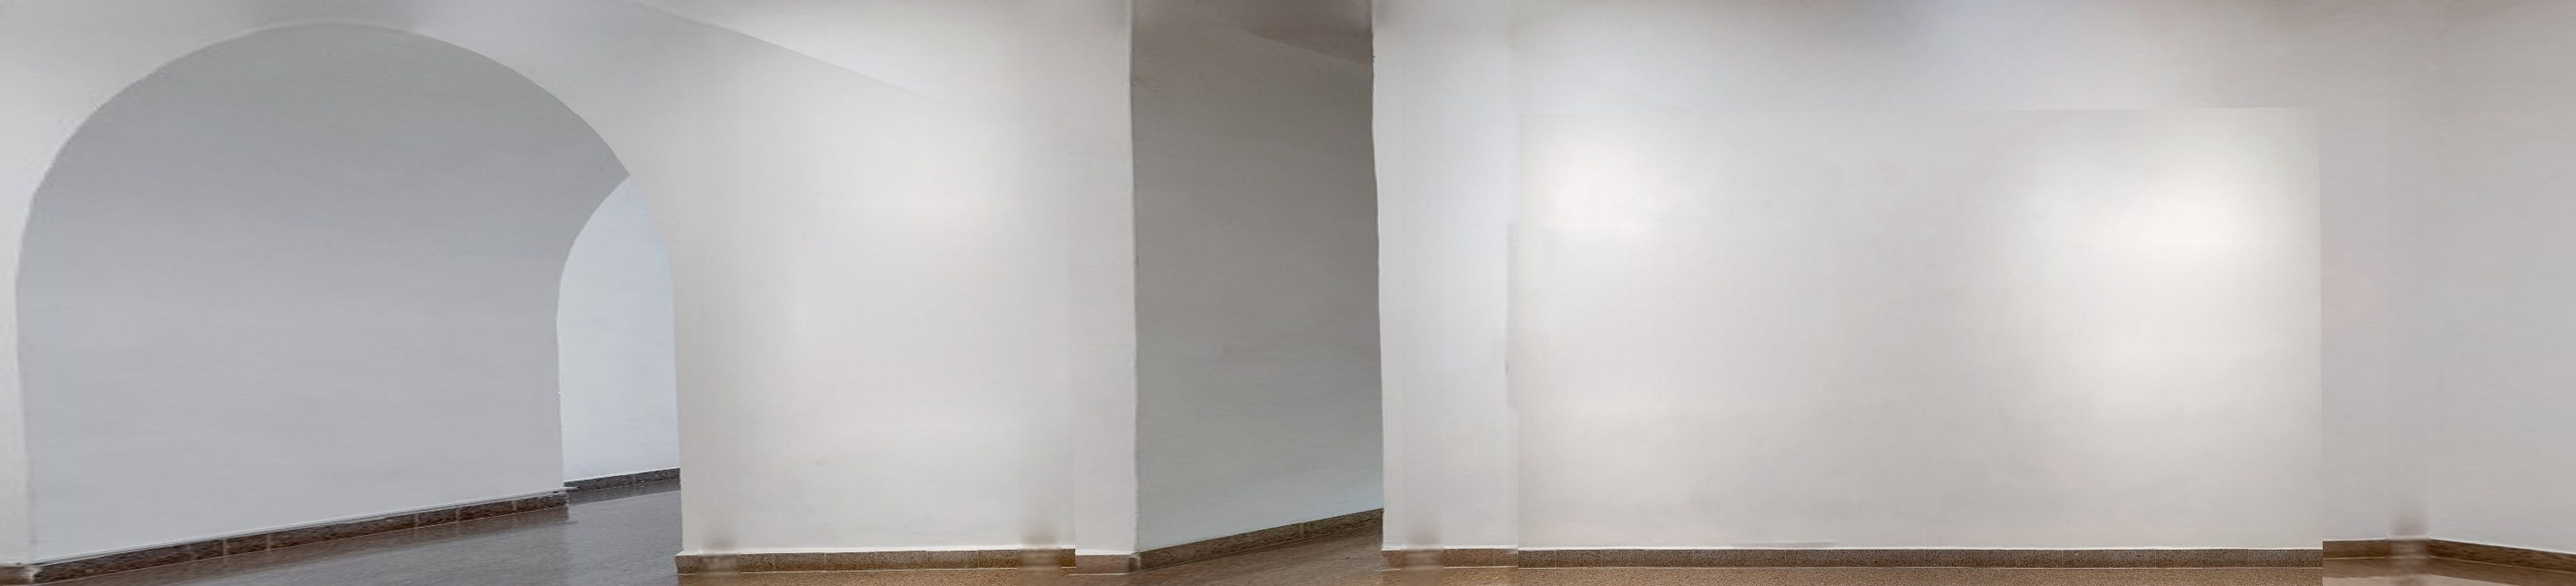
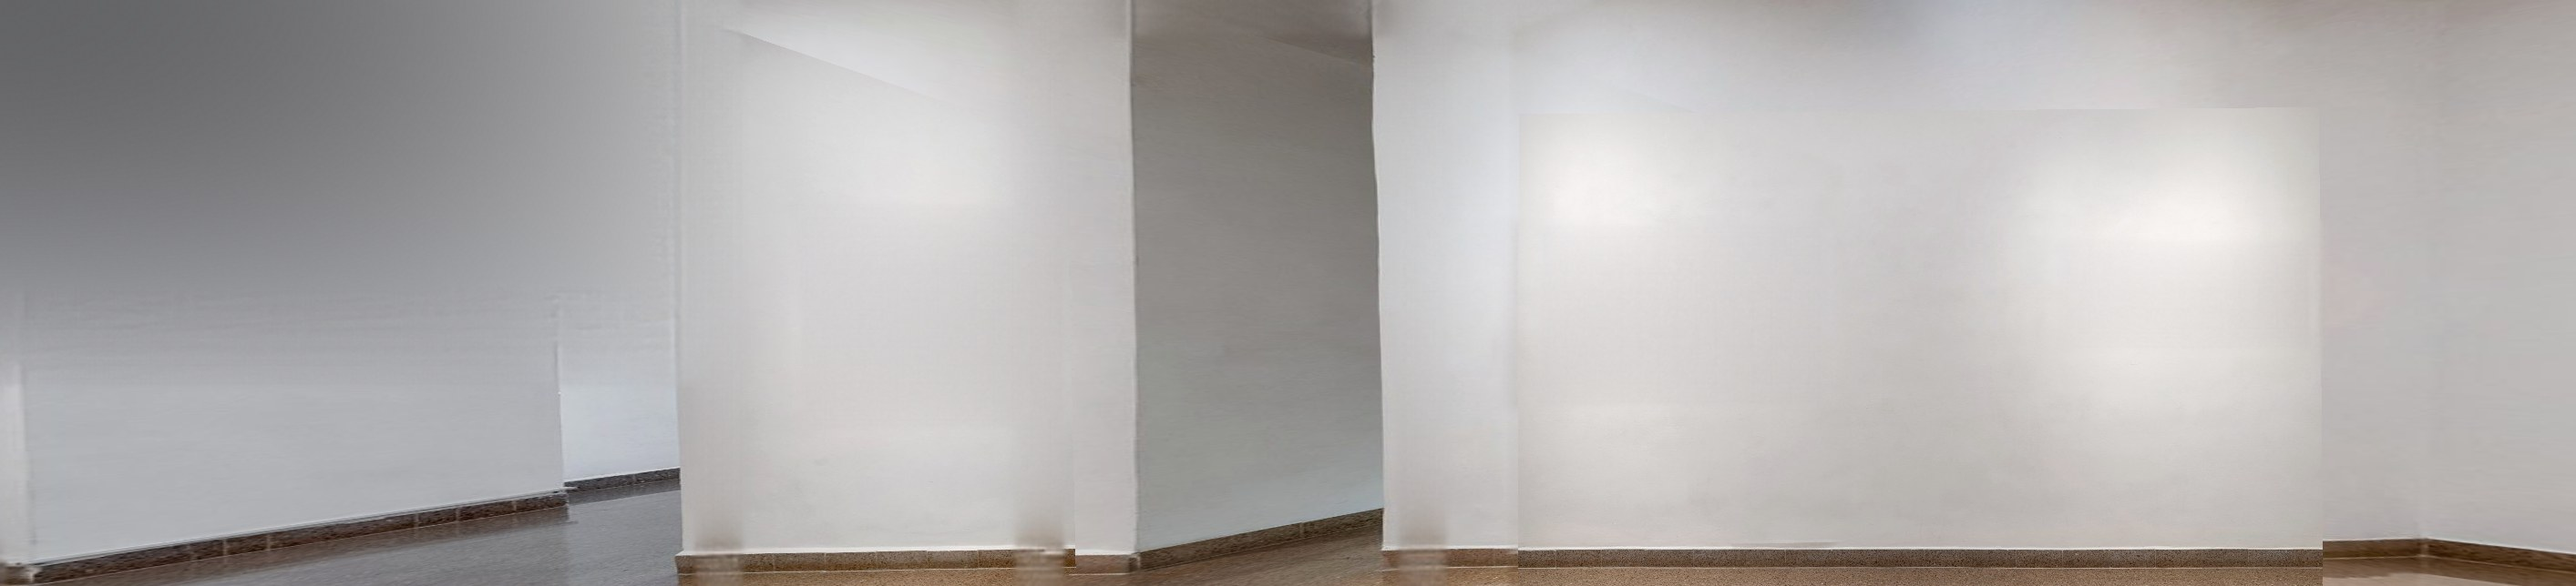
Open Studio spaces: arches as they are, the room beyond the openings, no halos round works, a real terrazzo
- Openings: the top is the shape whose outline runs along the strongest edge
  in the photos, a lintel or half an ellipse of any rise (Ritual's wide arch
  had come out square: its steep sides hid it from the old test); an
  'opening' with no outline at all is not one (a skirting dropping at a
  corner had become a doorway).
- An arch's curved inside is modelled in the room's plaster; the view
  through every opening is what the photos show beyond it, just behind it,
  instead of an empty grey box.
- The wall round each work is filled from clean wall: a 6 cm ring round the
  hidden area is filled too and blended back, so no canvas edge or shadow
  is carried in, and no lighter rectangle shows round a work.
- The floor's grain as strong as the real floor's (it came out faint and
  read as plastic a few metres away).
- The inspection doesn't count the app's missing thumbnails list (written
  only when published) as a fault of the space.

Ritual: 10 of 10, 13 of 13 (ghost 0, smear 0.0003).

Claude-Session: https://claude.ai/code/session_017GsJvpJhWTJ6Xso11HKtdL

diff --git a/studio/app/space/space.js b/studio/app/space/space.js
@@ -87,9 +87,10 @@ export async function openSpace({ spec, works, src, onClose, onOpenWork }) {
     return new THREE.Mesh(g, material);
   }
   function openingPath(o, path) {
-    const r = o.arch ? Math.min((o.to - o.from) / 2, o.height - 0.5) : 0;
+    // an arch: half an ellipse as wide as the opening, rising as measured (a semicircle when not measured)
+    const hw = (o.to - o.from) / 2, r = o.arch ? Math.min(o.rise || hw, o.height - 0.5) : 0;
     path.moveTo(o.from, 0); path.lineTo(o.to, 0); path.lineTo(o.to, o.height - r);
-    if (o.arch) path.absarc((o.from + o.to) / 2, o.height - r, (o.to - o.from) / 2, 0, Math.PI, false); else path.lineTo(o.from, o.height);
+    if (o.arch) path.absellipse(o.from + hw, o.height - r, hw, r, 0, Math.PI, false); else path.lineTo(o.from, o.height);
     path.lineTo(o.from, 0); return path;
   }
 
@@ -109,11 +110,28 @@ export async function openSpace({ spec, works, src, onClose, onOpenWork }) {
     const depth = o.depth || 0.3;
     const U = V(s.u), N = V(s.normal), O = V(s.origin);
     const bottom = O.clone().addScaledVector(V(s.v), s.size[1]);  // the wall's foot at u = 0
-    if (!surfaces.some(x => x.kind === 'reveal')) {          // older spaces: a plain modelled thickness
-      const geo = new THREE.ExtrudeGeometry(openingPath(o, new THREE.Shape()), { depth, bevelEnabled: false, curveSegments: 24 });
+    if (o.arch || !surfaces.some(x => x.kind === 'reveal')) {
+      // an arch's curved inside (or, in older spaces, any opening's sides): modelled, in the room's plaster
+      const geo = new THREE.ExtrudeGeometry(openingPath(o, new THREE.Shape()), { depth, bevelEnabled: false, curveSegments: 48 });
       const basis = new THREE.Matrix4().makeBasis(U, new THREE.Vector3(0, 1, 0), N.clone().negate());
-      const rev = new THREE.Mesh(geo, [new THREE.MeshBasicMaterial({ visible: false }), new THREE.MeshStandardMaterial({ color: '#d9d7d2', roughness: 1, side: THREE.DoubleSide })]);
+      let side;
+      if (plasterTex) {
+        const t = plasterTex.clone(); t.wrapS = t.wrapT = THREE.RepeatWrapping; t.repeat.set(1, 1); t.needsUpdate = true;
+        side = new THREE.MeshBasicMaterial({ map: t, color: 0xe4e2de, toneMapped: false, side: THREE.DoubleSide });
+      } else side = new THREE.MeshStandardMaterial({ color: '#d9d7d2', roughness: 1, side: THREE.DoubleSide });
+      const rev = new THREE.Mesh(geo, [new THREE.MeshBasicMaterial({ visible: false }), side]);
       rev.applyMatrix4(basis); rev.position.copy(bottom); rev.userData.kind = 'reveal'; scene.add(rev);
+    }
+    if (o.view) {
+      // what the photos show through the opening, just behind it: the room beyond as it really is
+      loadTex(o.view).then(t => {
+        if (!t) return;
+        const w0 = o.to - o.from, g = new THREE.PlaneGeometry(w0, o.height);
+        const m = new THREE.Mesh(g, new THREE.MeshBasicMaterial({ map: t, toneMapped: false, side: THREE.DoubleSide }));
+        const c = bottom.clone().addScaledVector(U, (o.from + o.to) / 2).addScaledVector(N, -(depth + 0.02)).setY(o.height / 2);
+        m.matrixAutoUpdate = false; m.matrix.makeBasis(U, new THREE.Vector3(0, 1, 0), N).setPosition(c);
+        m.userData.kind = 'beyond'; scene.add(m); dirty = true;
+      });
     }
     const w = o.to - o.from + 2.4, d = 3.2;
     const mid = bottom.clone().addScaledVector(U, (o.from + o.to) / 2).addScaledVector(N, -(depth + d / 2));

diff --git a/studio/app/space/pipeline/build.py b/studio/app/space/pipeline/build.py
@@ -18,6 +18,7 @@ from .ties import find_ties
 from . import status, room, bake, verify, live
 
 OUT = APP / 'data' / 'spaces'
+GRAIN = 14              # the floor tile's grain, standard deviation in 0-255 (a terrazzo's chips read at a few metres)
 SMALL = 1024            # px, the long side of the image a work first shows in the walk
 CACHE = APP / 'space' / '.cache'
 
@@ -151,7 +152,11 @@ def floor_detail(images, cams, masks, gains, fy, size=1.0, mpp=0.003):
     yy, xx = np.mgrid[0:n, 0:n] / (n - 1)
     w = (np.minimum(xx, 1 - xx) * 2) * (np.minimum(yy, 1 - yy) * 2)
     w = np.clip(w * 3, 0, 1)[..., None]
-    return np.clip(t * w + sh * (1 - w), 0, 255).astype(np.uint8)
+    t = t * w + sh * (1 - w)
+    # the grain as strong as on the real floor: sampled from a photo at an angle (and cross-faded) it comes out
+    # faint, and a terrazzo's chips then melt into a flat, plastic-looking floor a few metres away
+    gain = float(np.clip(GRAIN / max(t.std(axis=(0, 1)).mean(), 1e-3), 1.0, 2.5))
+    return np.clip(mean + (t - mean) * gain, 0, 255).astype(np.uint8)
 
 
 def look_of(cam, fy):
@@ -242,7 +247,7 @@ def build(slug, log=print):
         # and only where the wall was well photographed: a poorly seen corner is no evidence of a doorway
         # (read from the wall as it will show, completed where no photo saw it: a gap is not an edge)
         whole = bake.fill_holes(col, cov)
-        ops = room.openings_in_wall(whole, np.ones(cov.shape, bool), floor_lab, s.texel, ceiling, ceiling) \
+        ops = room.openings_in_wall(whole, np.ones(cov.shape, bool), floor_lab, s.texel, ceiling, ceiling, log) \
             if box_how[measured[s.name]].startswith('נמדד') and cov.mean() > 0.7 else []
         # round each opening, the photos show its real edge a few cm from where it is cut: that band is
         # filled with plain wall, so no sliver of the photo's edge runs alongside the cut
@@ -262,9 +267,9 @@ def build(slug, log=print):
             r_top = int((ceiling - o['height']) / s.texel)
             cov[:, max(0, c0 - b):c0 + 1] = 0; cov[:, c1:c1 + b] = 0
             # over the top: a lintel's edge, or for an arch the whole curve from where it springs
-            r_spring = int((ceiling - o['height'] + ((o['to'] - o['from']) / 2 if o.get('arch') else 0)) / s.texel)
+            r_spring = int((ceiling - o['height'] + (o.get('rise', (o['to'] - o['from']) / 2) if o.get('arch') else 0)) / s.texel)
             cov[max(0, r_top - b):r_spring + 1, max(0, c0 - b):c1 + b] = 0
-        col = bake.fill_holes(col, cov)
+        col = bake.fill_holes(col, cov, feather=int(0.06 / s.texel))
         # what is left on the open wall that stands out from the plaster round it (a wall label, a switch,
         # a stain, the trace of a work's edge) is taken away: the walls show the works and nothing else
         spots = room.wall_spots(col, s.texel, ceiling, [o for o in ops], works_on(s, works, sizes, fy, ceiling))
@@ -273,9 +278,17 @@ def build(slug, log=print):
             log(f"  {s.name}: {spots.mean() * 100:.2f}% of the wall cleaned of marks")
         write_jpg(d / f'{s.name}.jpg', col)
         surfaces.append(surface_json(s, fy, f'{rel}/{s.name}.jpg', 'wall', cov, ops))
-        # the inside of each opening (the wall's thickness) is baked from the photos too, like the walls
+        # the inside of each opening (the wall's thickness) is baked from the photos too, like the walls; an
+        # arch's curved inside is modelled by the viewer, in the room's plaster
         for k, o in enumerate(ops):
             o['depth'] = REVEAL
+            # what the photos show through the opening (the room beyond), seen from the wall's plane: the
+            # viewer shows it just behind the opening, instead of an empty box
+            c0, c1 = int(o['from'] / s.texel), int(o['to'] / s.texel); r0 = max(0, int((ceiling - o['height']) / s.texel))
+            write_jpg(d / f'{s.name}-o{k}-view.jpg', whole[r0:, c0:c1], q=86)      # (before the band round it was cleared)
+            o['view'] = f'{rel}/{s.name}-o{k}-view.jpg'
+            if o.get('arch'):
+                continue
             for r in reveal_surfaces(s, o, ceiling, f'{s.name}-o{k}'):
                 rc, rcov, _, _ = bake.bake(r, images, cams, masks, gains)
                 if rcov.mean() < 0.3 and profile is not None:

diff --git a/studio/app/space/pipeline/room.py b/studio/app/space/pipeline/room.py
@@ -370,7 +370,7 @@ def foot_runs(img, valid, texel, top_height, log=None):
     return out
 
 
-def openings_in_wall(img, valid, floor_lab, texel, top_height, ceiling):
+def openings_in_wall(img, valid, floor_lab, texel, top_height, ceiling, log=None):
     """Openings in a wall: columns where the floor carries on above the wall's foot (seen through the
     wall plane), at least 0.6 m wide. Each gets a top: an arch if its edge rises to the middle."""
     lab = cv2.cvtColor(img, cv2.COLOR_BGR2LAB).astype(np.float32)
@@ -452,8 +452,51 @@ def openings_in_wall(img, valid, floor_lab, texel, top_height, ceiling):
             ja, jb = jamb(a, height), jamb(b, height)
             if ja is None or jb is None or (jb - ja) * texel < 0.6:
                 continue
-        out.append({'from': round(ja * texel, 3), 'to': round(jb * texel, 3), 'height': round(height, 2), 'arch': arch})
+        shape = opening_shape(lab[..., 0], wall_L, ja, jb, height, texel, top_height)
+        if shape is None:
+            if log:
+                log(f"    {ja * texel:.2f}-{jb * texel:.2f} m: nothing seen through it, not an opening")
+            continue
+        rise = shape
+        out.append({'from': round(ja * texel, 3), 'to': round(jb * texel, 3), 'height': round(height, 2), 'arch': rise > 0,
+                    **({'rise': round(rise, 2)} if rise > 0 else {})})
     return out
+
+
+def opening_shape(L, wall_L, a, b, height, texel, top_height):
+    """An opening's top, from its outline in the photos.
+    Returns the arch's rise in metres (0: a square top), or None if no outline is seen at all (the wall's
+    foot dropping at a corner, say: not an opening).
+
+    The top is the shape whose outline runs along the strongest edge in the photos: a straight lintel or
+    half an ellipse of any rise (a wide arch has steep sides, so its top's height alone, middle against
+    sides, misses it)."""
+    H = L.shape[0]
+    hw = (b - a) / 2 * texel
+    # the top's outline is a sharp edge in the photos: the shape whose outline runs along the strongest edge
+    g = cv2.GaussianBlur(L, (0, 0), 1.5)
+    mag = np.hypot(cv2.Sobel(g, cv2.CV_32F, 1, 0), cv2.Sobel(g, cv2.CV_32F, 0, 1))
+
+    def along(rise):
+        spring = height - rise
+        t = np.linspace(0, np.pi, 200)
+        px = (a + b) / 2 + np.cos(t) * hw / texel
+        py = (top_height - (spring + np.sin(t) * rise)) / texel if rise else np.full_like(t, (top_height - height) / texel)
+        if not rise:
+            px = np.linspace(a + 2, b - 2, 200)
+        ix = np.clip(px.astype(int), 0, L.shape[1] - 1); iy = np.clip(py.astype(int), 0, H - 1)
+        return float(np.mean([mag[max(0, j - 2):j + 3, i].max() for i, j in zip(ix, iy)]))
+    rises = [0.0] + list(np.linspace(0.3, min(hw, height - 1.0), 16))
+    scores = [along(r) for r in rises]
+    # an opening's outline is sharp; plain wall's texture is not (the wall beside it, at the works' height)
+    band = mag[int((top_height - 2.0) / texel):int((top_height - 0.3) / texel)]
+    wall = np.percentile(np.delete(band, np.s_[max(0, a - 20):b + 20], axis=1), 90) if band.size else 1.0
+    if max(scores) < 1.8 * wall:
+        return None
+    best = rises[int(np.argmax(scores))]
+    if best and scores[int(np.argmax(scores))] < 1.5 * max(scores[0], 1.0):
+        best = 0.0                                                    # no clear curve: a square top
+    return float(best)
 
 
 def wall_profile(img, seen):

diff --git a/studio/app/space/pipeline/bake.py b/studio/app/space/pipeline/bake.py
@@ -212,12 +212,23 @@ def match_edges(out, img, miss):
     return np.clip(res, 0, 255).astype(np.uint8)
 
 
-def fill_holes(img, cover):
+def fill_holes(img, cover, feather=0):
     """Where no photo saw the surface: small gaps are continued from their edges at full detail, large
-    ones softly from the surrounding colour (both are hidden behind works more often than not)."""
+    ones softly from the surrounding colour (both are hidden behind works more often than not).
+
+    feather (pixels): the seen surface right round a gap is often its least trustworthy part (a canvas's
+    edge or shadow just outside a work's mask, a doorframe's): a ring that wide is filled too, and blended
+    back into what was seen from the gap outward, so the fill starts from clean wall and leaves no seam."""
     miss = (cover == 0)
     if not miss.any() or miss.all():
         return img
+    if feather:
+        ring = cv2.dilate(miss.astype(np.uint8), cv2.getStructuringElement(cv2.MORPH_ELLIPSE, (2 * feather + 1,) * 2)) > 0
+        filled = fill_holes(img, (~ring).astype(np.float32))
+        d = cv2.distanceTransform((~miss).astype(np.uint8), cv2.DIST_L2, 5)
+        a = np.clip(1 - d / feather, 0, 1)[..., None]
+        a = a * a * (3 - 2 * a)                                      # a smooth step, no edge of its own
+        return np.clip(filled * a + img * (1 - a), 0, 255).astype(np.uint8)
     from . import inpaint
     lam = inpaint.fill(img, miss)
     if lam is not None:

diff --git a/studio/app/data/spaces/ritual.report.md b/studio/app/data/spaces/ritual.report.md
@@ -2,7 +2,7 @@
 
 # דוח חלל: Ritual
 
-נבנה אוטומטית ב־2026-10-25 מתוך 6 צילומים ו־15 עבודות (283 שניות).
+נבנה אוטומטית ב־2026-10-25 מתוך 6 צילומים ו־15 עבודות (285 שניות).
 
 ## מה נמצא
 
@@ -36,7 +36,7 @@
 
 ## שלב 2: בדיקה יסודית בתוך הסיור
 
-הסיור נפתח באפליקציה עצמה, על מסך בגודל טלפון, וצולם מ־139 נקודות מבט: מכל צילום, מנקודת ההתחלה, מרשת של מקומות לאורך החדר לכל הכיוונים, וכל עבודה מלפנים, מקרוב ומהצדדים (163 שניות).
+הסיור נפתח באפליקציה עצמה, על מסך בגודל טלפון, וצולם מ־139 נקודות מבט: מכל צילום, מנקודת ההתחלה, מרשת של מקומות לאורך החדר לכל הכיוונים, וכל עבודה מלפנים, מקרוב ומהצדדים (172 שניות).
 
 **עבר: הסיור מתפרסם.**
 
@@ -88,6 +88,3 @@
 | Woman and a gun | 122 × 143 | 122 × 143 | 1.44 מ' |  |
 
 </div>
-
-
-> **בנייה חדשה לא עברה את הבדיקה** (שגיאות: http 404: http://127.0.0.1:57473/studio/app/data/thumbs.json). הגרסה שעברה את כל הבדיקות נשארת באוויר, בלי שינוי.
